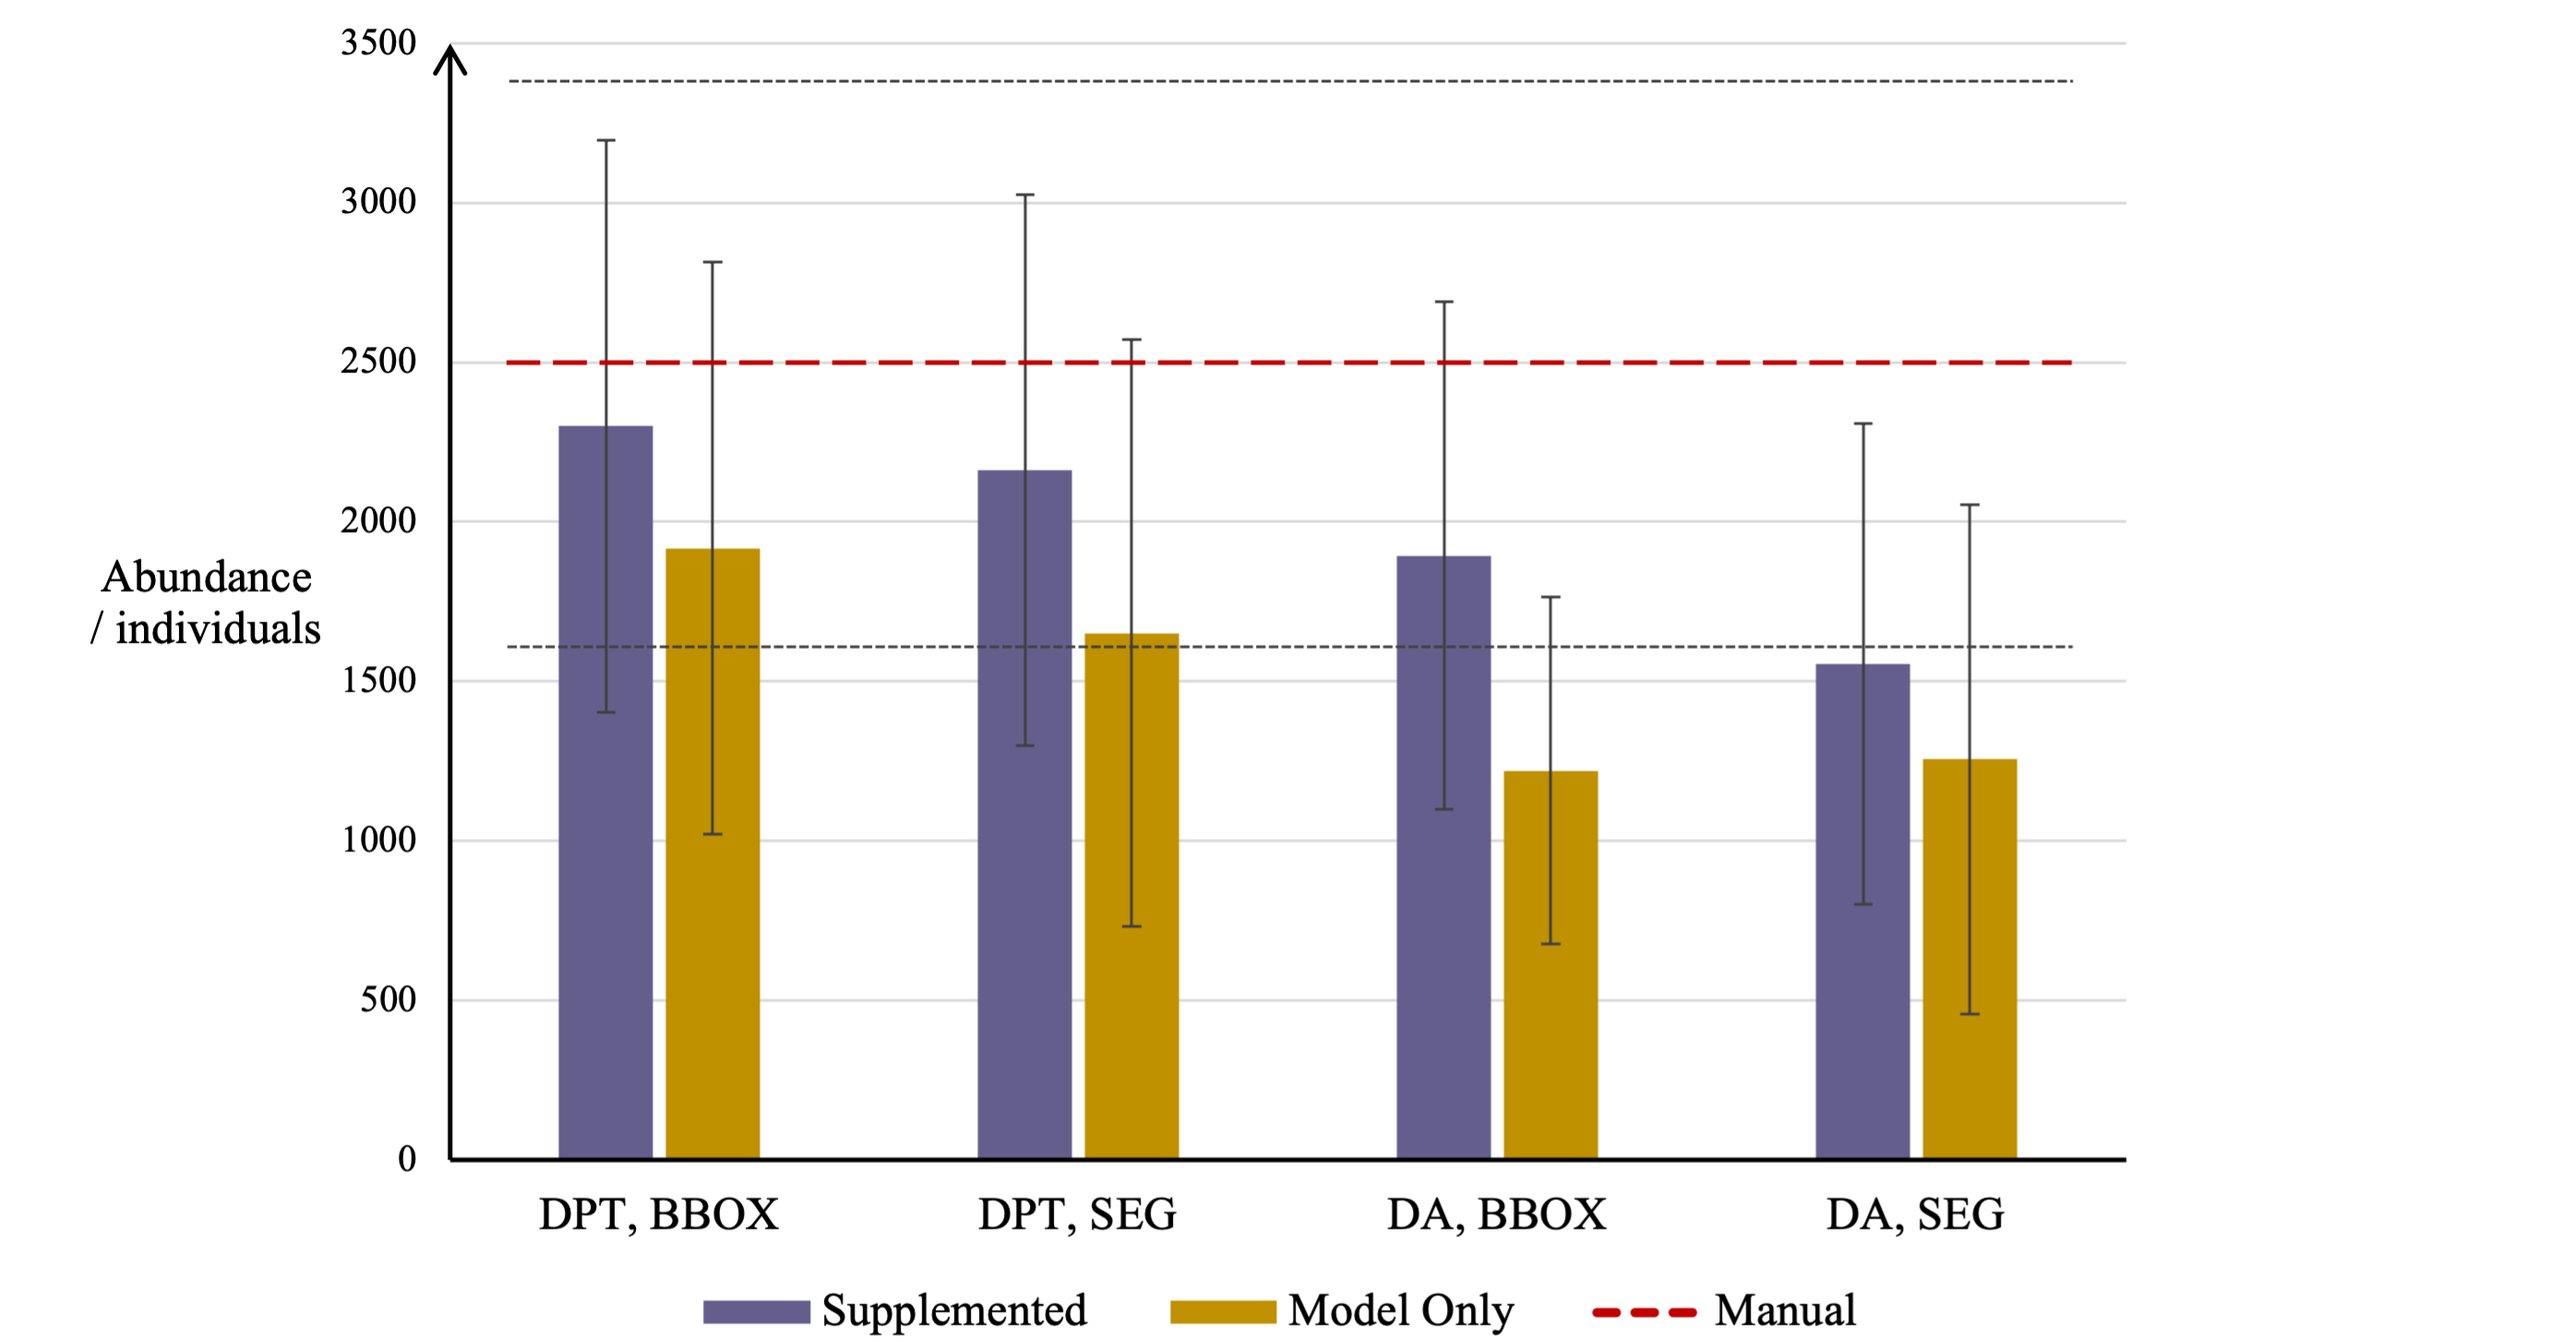
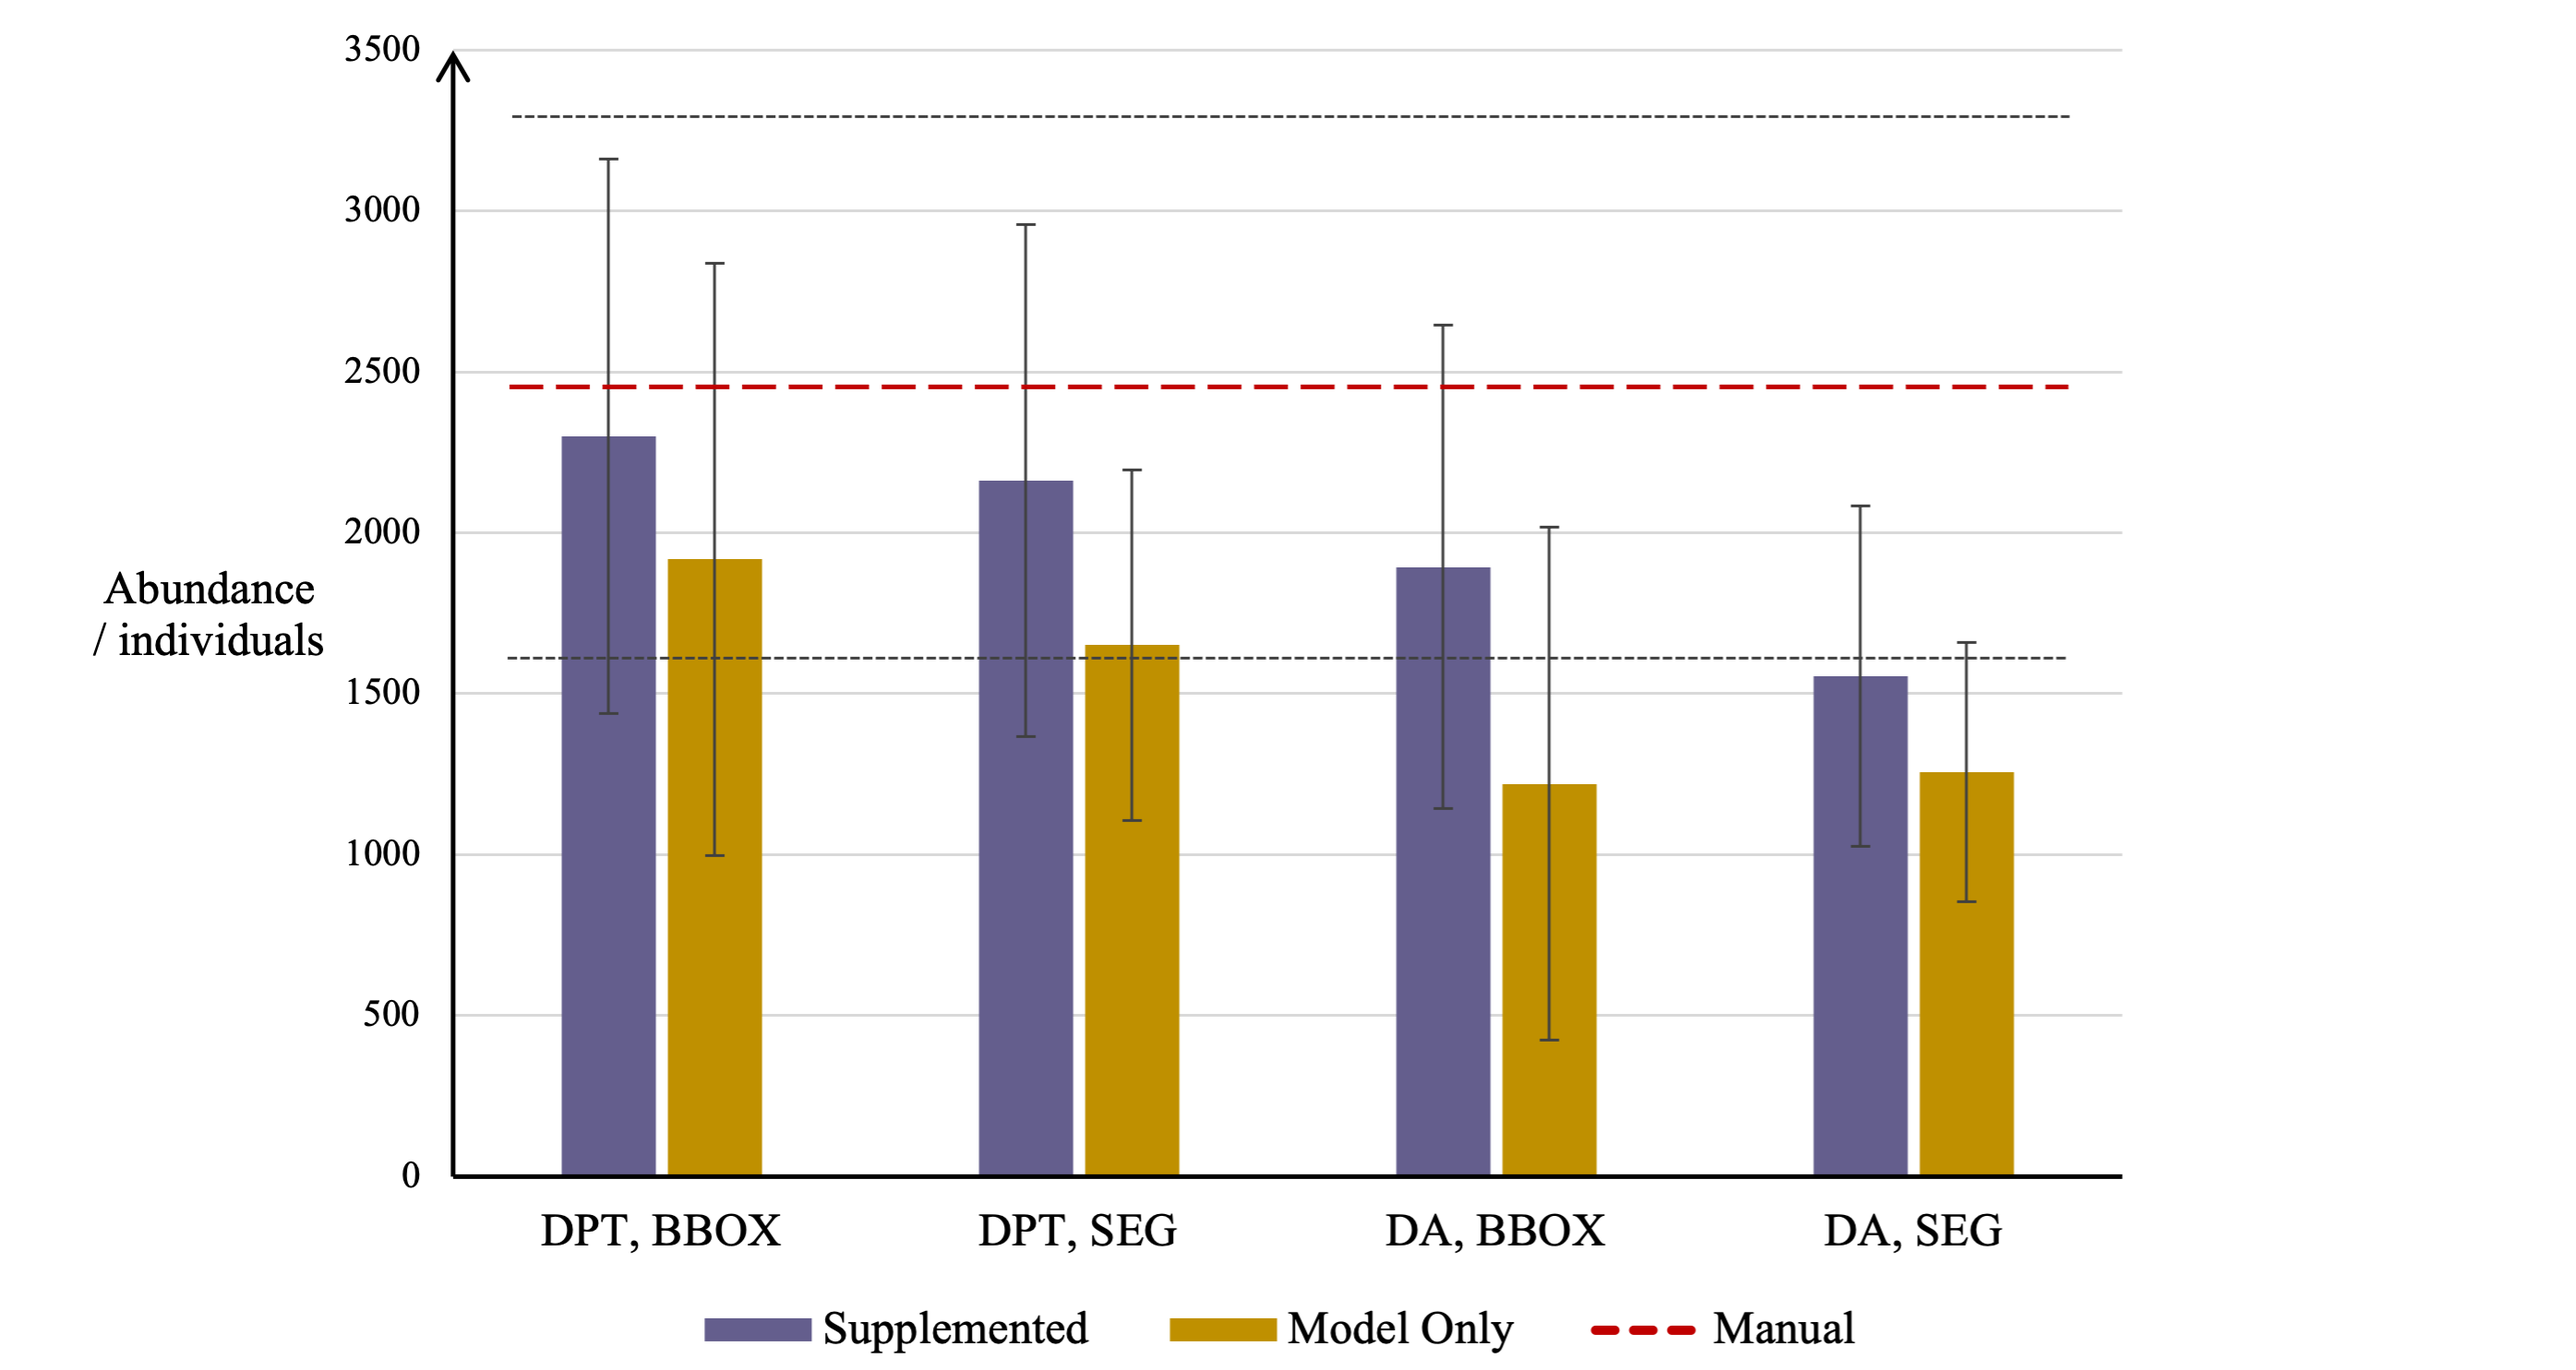
Updated acknowledgements

diff --git a/appendix/appendix01.tex b/appendix/appendix01.tex
@@ -25,7 +25,7 @@
         & {Estimate} & {LCI} & {UCI} & {SE} & {CV}
         & {Median} & {LCI} & {UCI} & {SE} & {CV} \\
         \midrule
-        Manual    & 0.47 & 0.24 & 0.92 & 0.17 & 0.36 & 0.57 & 0.38 & 1.01 & 0.16 & 0.28 \\
+        Manual    & 0.46 & 0.46 & 0.88 & 0.16 & 0.34 & 0.43 & 0.26 & 0.66 & 0.12 & 0.27 \\
         DPT, BBOX & 0.43 & 0.21 & 0.88 & 0.16 & 0.38 & 0.43 & 0.23 & 0.78 & 0.15 & 0.34 \\
         DPT, SEG  & 0.40 & 0.20 & 0.81 & 0.15 & 0.37 & 0.46 & 0.29 & 0.72 & 0.15 & 0.32 \\
         DA, BBOX  & 0.35 & 0.17 & 0.75 & 0.14 & 0.40 & 0.36 & 0.17 & 0.64 & 0.13 & 0.37 \\
@@ -51,7 +51,7 @@
         & {Estimate} & {LCI} & {UCI} & {SE} & {CV}
         & {Median} & {LCI} & {UCI} & {SE} & {CV} \\
         \midrule
-        Manual    & 2506 & 1267 & 4958 & 896 & 0.36 & 2827 & 1708 & 3873 & 650 & 0.23 \\
+        Manual    & 2454 & 1273 & 4730 & 841 & 0.34 & 2312 & 1202 & 4126 & 847 & 0.37 \\
         DPT, BBOX & 2300 & 1128 & 4690 & 862 & 0.38 & 2446 & 1582 & 4529 & 801 & 0.33 \\
         DPT, SEG  & 2162 & 1074 & 4353 & 794 & 0.37 & 2480 & 1469 & 3595 & 589 & 0.24 \\
         DA, BBOX  & 1894 &  894 & 4017 & 752 & 0.40 & 1946 &  878 & 3253 & 761 & 0.39 \\
@@ -87,7 +87,7 @@
         & {Estimate} & {LCI} & {UCI} & {SE} & {CV}
         & {Median} & {LCI} & {UCI} & {SE} & {CV} \\
         \midrule
-        Manual    & 0.47 & 0.24 & 0.92 & 0.17 & 0.36 & 0.57 & 0.38 & 1.01 & 0.16 & 0.28 \\
+        Manual    & 0.46 & 0.46 & 0.88 & 0.16 & 0.34 & 0.43 & 0.26 & 0.66 & 0.12 & 0.27 \\
         DPT, BBOX & 0.36 & 0.15 & 0.87 & 0.17 & 0.48 & 0.40 & 0.21 & 0.77 & 0.16 & 0.39 \\
         DPT, SEG  & 0.31 & 0.16 & 0.58 & 0.10 & 0.33 & 0.31 & 0.15 & 0.56 & 0.11 & 0.36 \\
         DA, BBOX  & 0.23 & 0.07 & 0.73 & 0.15 & 0.65 & 0.23 & 0.10 & 0.37 & 0.08 & 0.36 \\
@@ -113,7 +113,7 @@
         & {Estimate} & {LCI} & {UCI} & {SE} & {CV}
         & {Median} & {LCI} & {UCI} & {SE} & {CV} \\
         \midrule
-        Manual    & 2506 & 1267 & 4958 & 896 & 0.36 & 2827 & 1708 & 3873 & 650 & 0.23 \\
+        Manual    & 2454 & 1273 & 4730 & 841 & 0.34 & 2312 & 1202 & 4126 & 847 & 0.37 \\
         DPT, BBOX & 1917 &  785 & 4683 & 920 & 0.48 & 2150 & 1241 & 3704 & 701 & 0.33 \\
         DPT, SEG  & 1651 &  878 & 3104 & 544 & 0.33 & 1685 & 1054 & 2748 & 512 & 0.30 \\
         DA, BBOX  & 1220 &  379 & 3927 & 797 & 0.65 & 1175 &  532 & 2196 & 458 & 0.39 \\

diff --git a/body/analysis/activity_analysis.tex b/body/analysis/activity_analysis.tex
@@ -12,8 +12,8 @@ manually estimated distances.
 
 \begin{figure}[H]
     \centering
-    \includegraphics[width=0.8\textwidth]{body/analysis/assets/activity/density_chart}
-    \includegraphics[width=0.81\textwidth]{body/analysis/assets/activity/abundance_chart}
+    \includegraphics[scale=0.6]{body/analysis/assets/activity/density_chart}
+    \includegraphics[scale=0.6]{body/analysis/assets/activity/abundance_chart}
     \caption{Density (top) and abundance (bottom) estimates for the chimpanzee population
         (Taï national park), derived with camera trap video from the WCF dataset.
         Estimates are given using distance estimates obtained from each configuration of the
@@ -48,6 +48,7 @@ for an increased probability of detection at far distances (Figure~\ref{fig:dete
 
 \begin{figure}[H]
     \centering
+    \vspace{-2mm}
     \includegraphics[width=0.6\textwidth]{body/analysis/assets/activity/detection_function}
     \caption{Graph showing how the distribution of distance estimates affects the fitting of a
     detection function. The blue line represents a detection function fitted with distances
@@ -56,7 +57,7 @@ for an increased probability of detection at far distances (Figure~\ref{fig:dete
     \label{fig:detection_function}
 \end{figure}
 
-Density, $D$, is given by the equation
+Point transect density, $D$, is given by the equation
 \[
     D = \dfrac{n}{2k\pi \cdot \displaystyle \int_{0}^{w} r \cdot g(r) \, dr}
 \]
